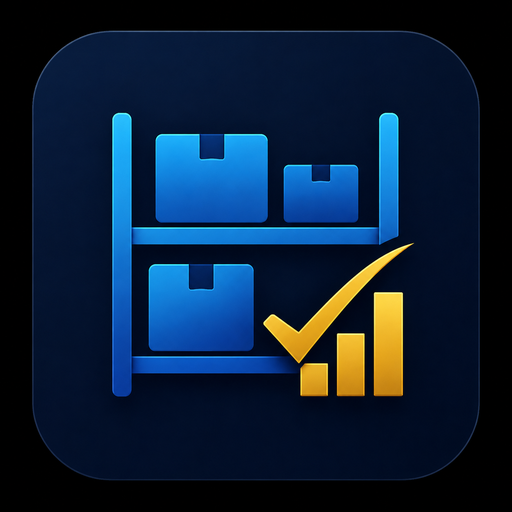
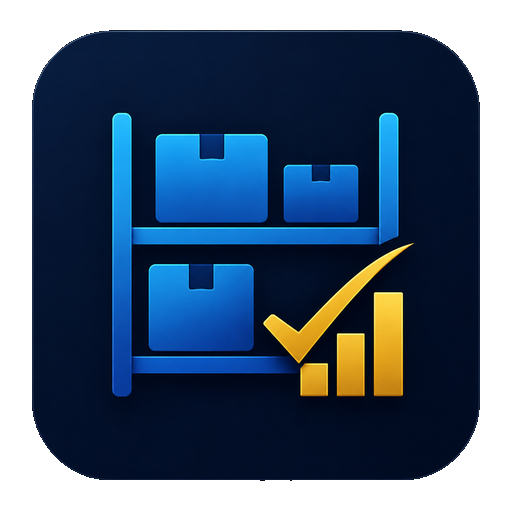
Add files via upload

Changed region(s): [[0.0, 0.0, 1.0, 1.0]]

diff --git a/templates/_mobile_head.html b/templates/_mobile_head.html
@@ -1,14 +1,14 @@
 <meta name="theme-color" content="#12181f">
-<link rel="icon" type="image/x-icon" href="{{ url_for('static', filename='favicon.ico') }}?v=2">
-<link rel="icon" type="image/png" sizes="32x32" href="{{ url_for('static', filename='favicon-32.png') }}?v=2">
-<link rel="apple-touch-icon" href="{{ url_for('static', filename='app-icon-192.png') }}?v=2">
+<link rel="icon" type="image/x-icon" href="{{ url_for('static', filename='favicon.ico') }}?v=3">
+<link rel="icon" type="image/png" sizes="32x32" href="{{ url_for('static', filename='favicon-32.png') }}?v=3">
+<link rel="apple-touch-icon" href="{{ url_for('static', filename='app-icon-192.png') }}?v=3">
 <meta name="mobile-web-app-capable" content="yes">
 <meta name="apple-mobile-web-app-capable" content="yes">
 <meta name="apple-mobile-web-app-status-bar-style" content="black-translucent">
 <meta name="apple-mobile-web-app-title" content="Controle Estoque">
-<link rel="manifest" href="{{ url_for('static', filename='manifest.webmanifest') }}?v=2">
+<link rel="manifest" href="{{ url_for('static', filename='manifest.webmanifest') }}?v=3">
 <script>
 if ('serviceWorker' in navigator) {
-  window.addEventListener('load', () => navigator.serviceWorker.register('/service-worker.js?v=2').catch(() => {}));
+  window.addEventListener('load', () => navigator.serviceWorker.register('/service-worker.js?v=3').catch(() => {}));
 }
 </script>

diff --git a/static/service-worker.js b/static/service-worker.js
@@ -1,12 +1,12 @@
-const CACHE = 'controle-estoque-mobile-v2';
+const CACHE = 'controle-estoque-mobile-v3';
 const STATIC = [
-  '/static/favicon.ico?v=2',
-  '/static/favicon-32.png?v=2',
-  '/static/app-icon-192.png?v=2',
-  '/static/app-icon-512.png?v=2',
-  '/static/mobile-icon-192.png?v=2',
-  '/static/mobile-icon-512.png?v=2',
-  '/static/manifest.webmanifest?v=2'
+  '/static/favicon.ico?v=3',
+  '/static/favicon-32.png?v=3',
+  '/static/app-icon-192.png?v=3',
+  '/static/app-icon-512.png?v=3',
+  '/static/mobile-icon-192.png?v=3',
+  '/static/mobile-icon-512.png?v=3',
+  '/static/manifest.webmanifest?v=3'
 ];
 self.addEventListener('install', event => {
   event.waitUntil(caches.open(CACHE).then(cache => cache.addAll(STATIC)).catch(() => {}));
